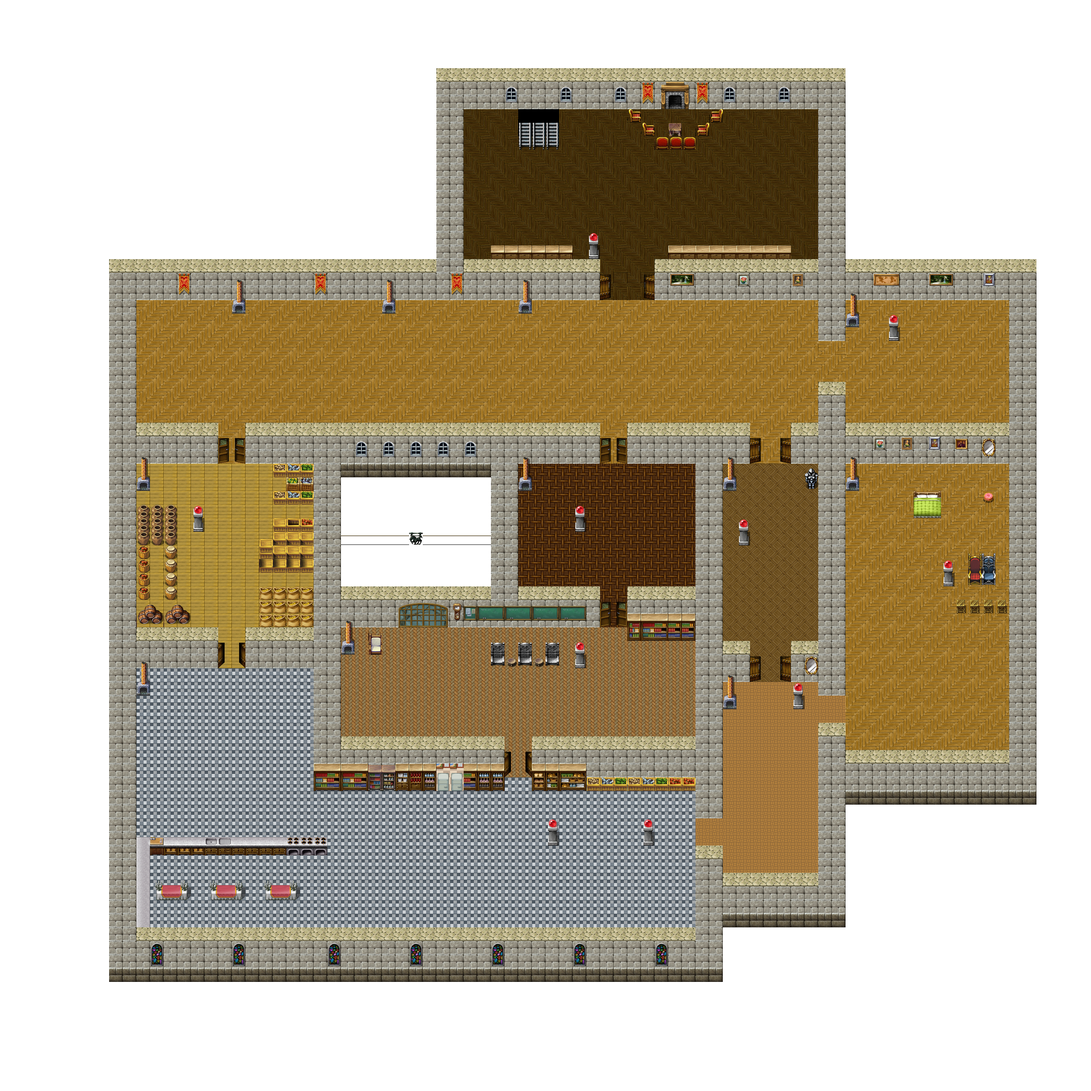
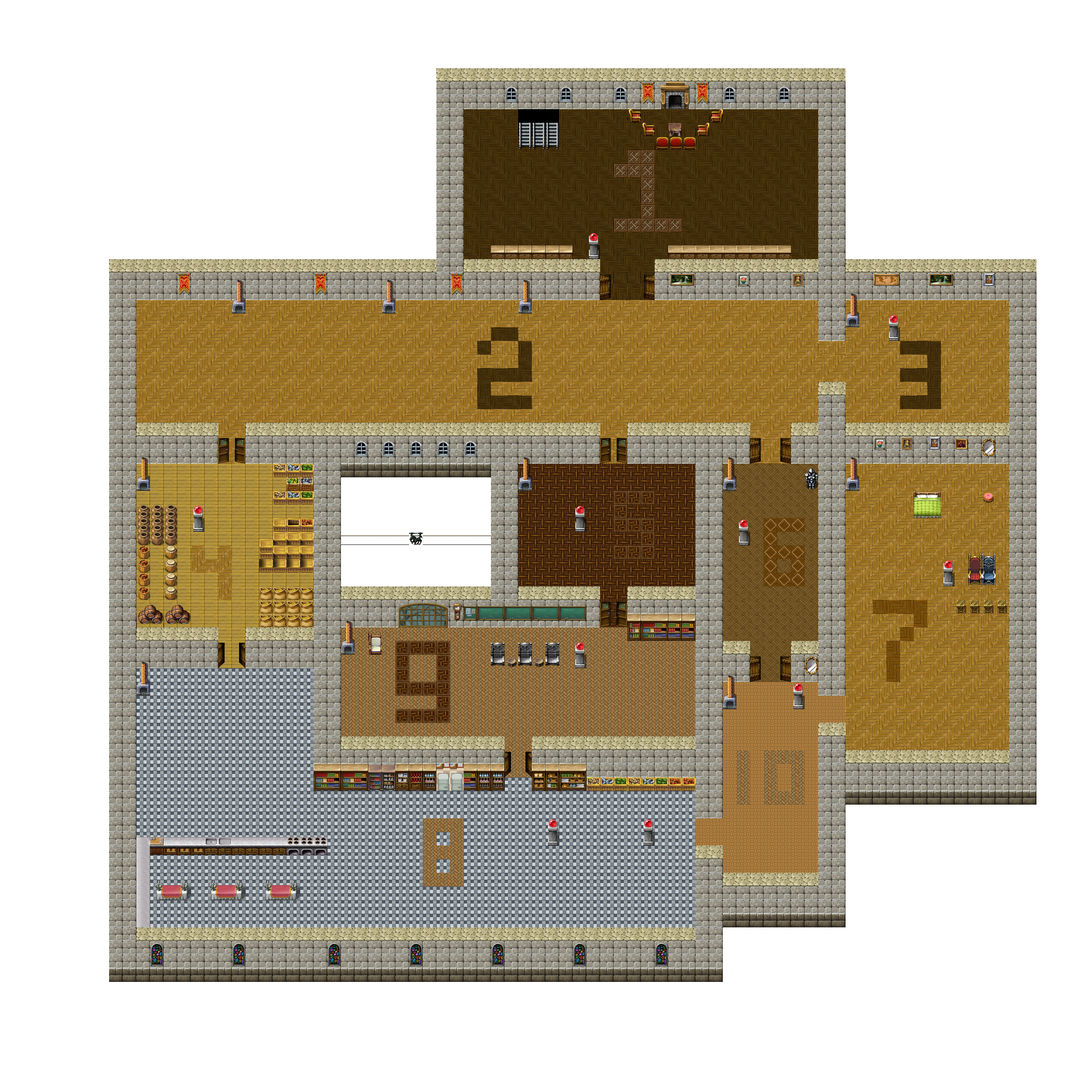
added switches

diff --git a/js/level.js b/js/level.js
@@ -21,7 +21,8 @@ function Level(obj) {
         this.check = obj.check;
     }
     this.interface = [
-        new Button(15, 15, 85, 66, sprites.menu, () => {renderBuffer.push(new superText('menu isnt done yet', 300, 300, 2000))})
+        new Button(15, 15, 85, 66, sprites.menu, () => {renderBuffer.push(new superText('menu isnt done yet', 300, 300, 2000))}),
+        new Button(105, 25, 40, 40, sprites.repeat, () => {GameStateStack.currentState().restart()})
     ]
     player.init(this.rooms[this.activeRoom].center, this.activeRoom);
 }
@@ -94,8 +95,8 @@ Level.prototype.isFinished= function(){
 
 Level.prototype.restart = function(){
     var name = GameStateStack.currentState().name;
-    GameStateStack.pop();
-    GameStateStack.push(new Level(lvls[name]));
+    GameStateStack.popState();
+    GameStateStack.pushState(new Level(JSON.parse(levels[name])));
     player.init(GameStateStack.currentState().rooms[GameStateStack.currentState().activeRoom].center, GameStateStack.currentState().activeRoom);
 }
 /**
@@ -120,7 +121,12 @@ Level.prototype.onClick = function(point) {
                 if(sw.contains(point)){
                     sounds.clickSwitch.play();
                     onSwitch = true;
-                    console.log(sw);
+                    var hint = '';
+                    for(var i=0; i<sw.connectedRooms.length; i++){
+                        hint += (sw.connectedRooms[i]+1)+' ';    
+                    }
+                    console.log('hint is :'+hint);
+                    renderBuffer.push(new superText(hint, player.pos.x, player.pos.y-40, 3000, true));
                     for (let connectedRoomIndex of sw.connectedRooms) {
                         this.rooms[connectedRoomIndex].toggle();
                     }
@@ -128,6 +134,7 @@ Level.prototype.onClick = function(point) {
                         if(this.isFinished()){
                             console.log('final button pressed and finished');
                             renderBuffer.push(new superText('GJ m8, i r8 8/8', 300, 300, 2000));
+                            GameStateStack.next();
                         } else {
                             //game over, restart the level
                         }
@@ -193,111 +200,111 @@ function LevelInit(){
            rooms: [
                 {
                    id: '0',
-                   areas: [[290,182,330,583]],
-                   switches: [[[291,533,21,20],[1]]],
+                   areas: [[304,182,312,570]],
+                   switches: [[[300,538,33,34],[1]]],
                    state: true,
                    exits:[1,2,7,8],
                    doors:{
-                       '1': [290,635],
-                       '2': [290,327],
-                       '7': [623,439],
-                       '8': [622,260]
+                       '1': [295,606],
+                       '2': [296,302],
+                       '7': [623,443],
+                       '8': [621,267]
                    },
-                   center: [450,430]
+                   center: [460,460]
                },
                {
                    id: '1',
-                   areas: [[0,484,290,286]],
-                   switches: [[[190,484,27,13],[5,7]],[[0,711,13,22],[3]]],
+                   areas: [[0,491,288,279]],
+                   switches: [[[266,520,31,36],[5,7]],[[267,654,30,34],[3]]],
                    state: false,
                    exits:[0],
                    doors:{
-                       '0': [290,635]
+                       '0': [295,606]
                    },
-                   center: [140,620]
+                   center: [170,573]
                },
                {
                    id: '2',
-                   areas: [[0,183,288,301]],
-                   switches: [[[58,470,26,13],[8]],[[242,468,27,14],[4]]],
+                   areas: [[0,184,288,291]],
+                   switches: [[[133,444,28,35],[8]],[[266,385,31,32],[4]]],
                    state: false,
                    exits:[0,3],
                    doors:{
-                       '0': [290,330],
-                       '3': [192,181]
+                       '0': [296,302],
+                       '3': [168,175]
                    },
-                   center: [140,322]
+                   center: [231,305]
                },
                {
                    id: '3',
-                   areas: [[0,0,292,179]],
+                   areas: [[0,0,285,169]],
                    switches: [],
                    state: false,
                    exits:[2,4],
                    doors:{
-                       '2': [192,181],
-                       '4': [292,71]
+                       '2': [168,175],
+                       '4': [289,83]
                    },
-                   center: [150,90]
+                   center: [174,100]
                },
                {
                    id: '4',
-                   areas: [[295,0,327,178]],
-                   switches: [[[537,167,19,12],[3]],[[605,63,17,20],[5,6]]],
+                   areas: [[295,0,322,171]],
+                   switches: [[[555,141,30,30],[3]],[[598,79,36,22],[5,6]]],
                    state: false,
                    exits:[3],
                    doors:{
-                       '3': [292,71]
+                       '3': [289,83]
                    },
-                   center: [457,90]
+                   center: [455,80]
                },
                {
                    id: '5',
-                   areas: [[622,0,207,175]],
-                   switches: [[[640,162,25,16],[8], true]],
+                   areas: [[629,0,198,170]],
+                   switches: [[[640,142,28,32],[8], true]],
                    state: false,
                    exits:[8],
                    doors:{
-                       '8': [740,180]
+                       '8': [717,175]
                    },
-                   center: [732,90]
+                   center: [675,65]
                },
                {
                    id: '6',
-                   areas: [[830,0,196,179]],
-                   switches: [[[1004,162,22,19],[4]]],
+                   areas: [[830,0,196,167]],
+                   switches: [[[994,139,28,32],[4]]],
                    state: false,
                    exits:[8],
                    doors:{
-                       '8': [925,180]
+                       '8': [921,175]
                    },
-                   center: [925,90]
+                   center: [984,76]
                },
                {
                    id: '7',
-                   areas: [[620,350,406,193]],
-                   switches: [[[939,532,21,11],[2,6]],[[672,523,26,20],[8]]],
+                   areas: [[628,366,398,175]],
+                   switches: [[[917,508,30,30],[2,6]],[[704,511,36,29],[8]]],
                    state: false,
                    exits:[8,0],
                    doors:{
-                       '8': [840,350],
-                       '0': [623,438]
+                       '8': [812,355],
+                       '0': [623,443]
                    },
-                   center: [830,450]
+                   center: [744,454]
                },
                {
                    id: '8',
-                   areas: [[620,179,406,173]],
-                   switches: [[[674,332,30,20],[2]],[[618,200,20,18],[0]]],
+                   areas: [[627,179,399,170]],
+                   switches: [[[674,332,30,20],[2]],[[621,200,30,36],[0]]],
                    state: false,
                    exits:[5,0,6,7],
                    doors:{
-                       '5': [740,180],
-                       '0': [622,260],
-                       '6': [925,180],
-                       '7': [840,350]
+                       '5': [717,175],
+                       '0': [621,267],
+                       '6': [921,175],
+                       '7': [812,355]
                    },
-                   center: [830,260]
+                   center: [733,263]
                },
            ]
     }); 
@@ -311,7 +318,7 @@ function LevelInit(){
             {
                 id: '0',
                 areas: [[1125,350,748,257], [1410,606,124,96]],
-                switches: [],
+                switches: [ [[1378, 541, 31, 66], [1, 4, 5]] ],
                 state: true,
                 exits: [1],
                 doors: {
@@ -323,7 +330,7 @@ function LevelInit(){
                 id: '1',
                 areas: [[318,752,1601,221],[513,972,64,113],[1406,968,68,118],[1760,972,96,117]],
                 switches: [],
-                state: true,
+                state: false,
                 exits: [0,2,3,4,5],
                 doors: {
                   '0': [1464,662],
@@ -337,8 +344,8 @@ function LevelInit(){
             {
                 id: '2',
                 areas: [[1984, 705, 385, 278]],
-                switches: [],
-                state: true,
+                switches: [ [[2078, 738, 39, 63], [3, 8]] ],
+                state: false,
                 exits: [1],
                 doors: {
                     '1': [1950, 845]
@@ -348,8 +355,8 @@ function LevelInit(){
             {
                 id: '3',
                 areas: [[428, 1088, 188, 382]],
-                switches: [],
-                state: true,
+                switches: [ [[446, 1185, 36, 67], [1, 6]] ],
+                state: false,
                 exits: [1, 7],
                 doors: {
                     '1': [540, 1050],
@@ -360,8 +367,8 @@ function LevelInit(){
             {
                 id: '4',
                 areas: [[1221, 1105, 410, 248]],
-                switches: [],
-                state: true,
+                switches: [ [[1346, 1185, 30, 66], [8, 2, 5]] ],
+                state: false,
                 exits: [1, 8],
                 doors: {
                     '1': [1430, 1017],
@@ -372,7 +379,7 @@ function LevelInit(){
             {
                 id: '5',
                 areas: [[1717, 1100, 185, 400]],
-                switches: [],
+                switches: [ [[1730, 1217, 30, 670], []] ],
                 state: true,
                 exits: [1, 9],
                 doors: {
@@ -384,7 +391,7 @@ function LevelInit(){
             {
                 id: '6',
                 areas: [[1992, 1165, 374, 578]],
-                switches: [],
+                switches: [ [[2210, 1310, 30, 70],[]] ],
                 state: true,
                 exits: [9],
                 doors: {
@@ -395,7 +402,7 @@ function LevelInit(){
             {
                 id: '7',
                 areas: [[321, 1569, 414, 389],[772,1856,857,314]],
-                switches: [],
+                switches: [ [[1284, 1921, 30, 68], [3,8,9]], [[1506, 1921, 32, 64], [2, 8, 9]] ],
                 state: true,
                 exits: [3, 8, 9],
                 doors: {
@@ -408,8 +415,8 @@ function LevelInit(){
             {
                 id: '8',
                 areas: [[809, 1501, 820, 220]],
-                switches: [],
-                state: true,
+                switches: [ [[1348, 1504, 30, 67],[6, 9]] ],
+                state: false,
                 exits: [4, 7],
                 doors: {
                     '4': [1436, 1457],
@@ -420,7 +427,7 @@ function LevelInit(){
             {
                 id: '9',
                 areas: [[1698, 1609, 221, 432]],
-                switches: [],
+                switches: [ [[1860, 1602, 30, 67], [5, 2]] ],
                 state: true,
                 exits: [5, 6, 7],
                 doors: {

diff --git a/js/GameStateStack.js b/js/GameStateStack.js
@@ -21,15 +21,28 @@ var GameStateStack = {
     currentState: function() {
         return this.__curState;
     },
+    
+    __loadSavedLvl: function(name) {  // fuck architecture
+        let savedLvl = localStorage.getItem('progress') || name;
+        this.pushState(new Level(JSON.parse(levels[script[savedLvl][1]])));
+    },
+    
     next: function(){
         var name = this.currentState().name;
         if(name){
             if(script.hasOwnProperty(name)){
                 this.popState();
                 if(script[name][0] == 'level'){
-                    this.pushState(new Level(JSON.parse(levels[script[name][1]])))       
+                    if (name.startsWith('lvl')) {  // dirty hack
+                        localStorage.setItem('progress', name);
+                    }
+                    this.__loadSavedLvl(name);
                 } else if (script[name][0] == 'scene'){
-                    this.pushState(scenes[script[name][1]])
+                    if (localStorage.getItem('progress')) {
+                        this.__loadSavedLvl(name);
+                    } else {
+                        this.pushState(scenes[script[name][1]]);
+                    }
                 }
             }
         }

diff --git a/js/main.js b/js/main.js
@@ -8,12 +8,12 @@ var gameState = 'menu';
 var WIDTH = 900, HEIGHT = 600, offsetX, offsetY,OFFSET_X,OFFSET_Y;
 var eventBuffer = [], lastUpdate, renderBuffer = [];
 var script = {
-  'menu': ['scene','scene1'],
+  'lvl2': ['scene','scene1'],
   'scene1': ['scene','scene2'],
   'scene2': ['scene','scene3'],
   'scene3': ['scene','scene4'],
-  'scene4': ['level', 'lvl3'],
-  'lvl3': ['level','lvl2']
+  'scene4': ['level', 'lvl2'],
+  'menu': ['level','lvl3']
 };
 /*frame(function name)*/
 function init(){
@@ -30,6 +30,7 @@ function init(){
   initMenu();
   LevelInit();
   ScenesInit();
+ 
   // GameStateStack.pushState(new Level(JSON.parse(levels.lvl2))); //add lvl1 here
   GameStateStack.pushState(mainMenu); //add lvl1 here
   
